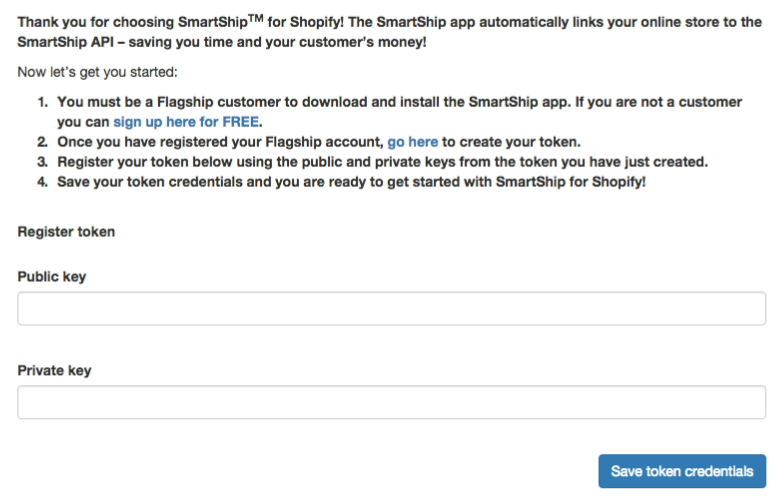
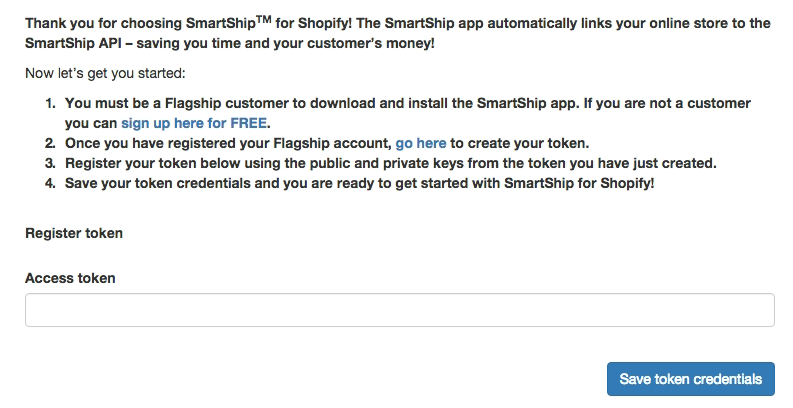
Modifies docs to be up to date with changes in the app.

diff --git a/README.md b/README.md
@@ -61,9 +61,9 @@ Go to https://auth.smartship.io, **login with your Flagship credentials** and cr
 
 **copy** or keep this page open, as we will need some information from this `token` that was created.
 
-### Register your token
+### Register your access token
 
-Insert your **Public** and **Private** keys from the token that we just created into these fields.
+Insert the **Active token** text from the token that we just created into the **Access token** field.
 
 ![inputs](img/token_key_inputs.png)
 
@@ -94,6 +94,9 @@ Checkboxes consisting of the courier services that Flagship offers, and a list o
 
 * **Packaging**
 Allows you to set a weight limit split on individual boxes in orders, meaning that if you have an order which would exceed the weight that you provided, the app adds an extra box during the quoting and dispatch processes.
+
+* **Additional Services**
+Allows you to set options for orders to be automatically fulfilled in your Shopify admin page when you dispatch an order through the SmartShip app. **Note** this feature only applies to stores that use live courier rates which can automatically dispatch orders from the SmartShip app.
 
 * **Additional Charges**
 Allows you to add a residential surcharge during the quoting process and dispatch process. This helps get more accurate rates during the quoting process and the dispatch process. You can also choose to insure orders that are made through your store with Flagship's discounted insurance program.
